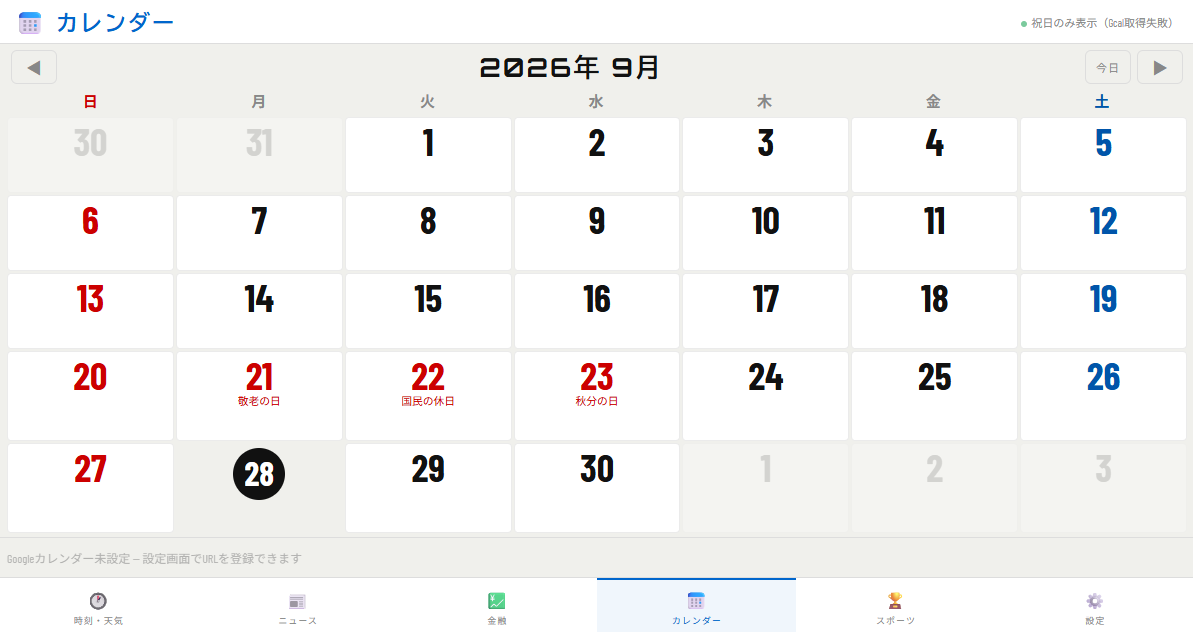
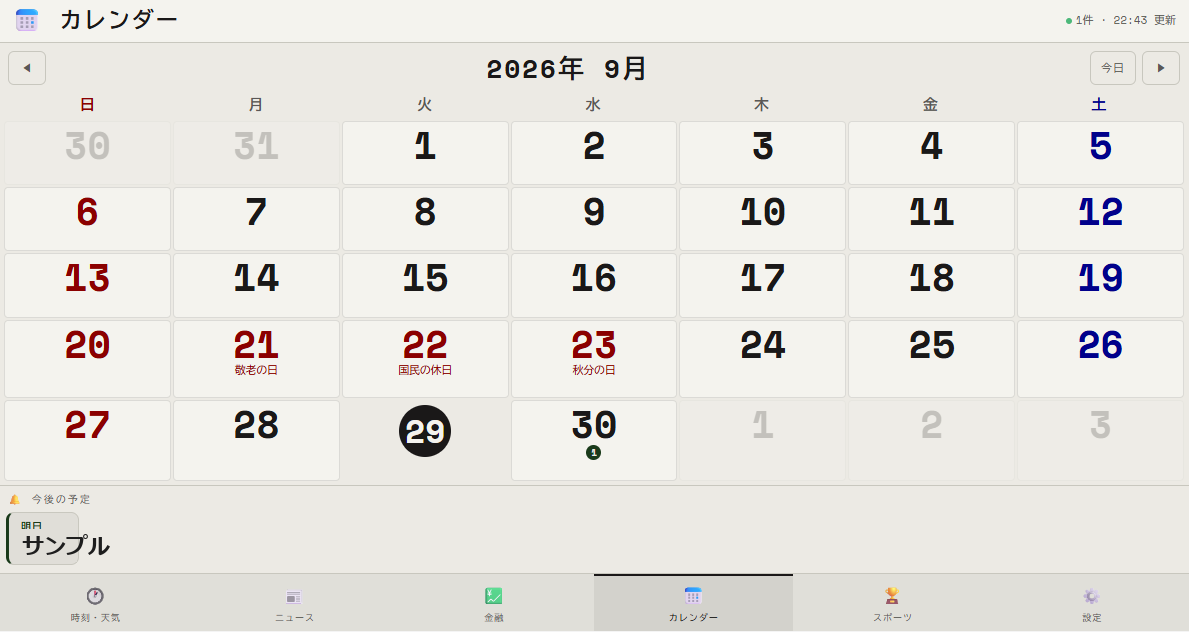
feat: タブレット情報モニター紹介ページのカレンダー説明・スクショを更新
- カレンダーの説明文に「件数バッジ」「マス目タップで過去の日付も含め日別詳細を表示」を追記
- calendar.pngを、実機で動作確認した最新UI（件数バッジ・今後の予定欄）のスクショに差し替え
  （実際の予定名はプライバシー配慮のため「サンプル」に画像編集で置換済み）

diff --git a/app/tablet-dashboard/page.tsx b/app/tablet-dashboard/page.tsx
@@ -34,7 +34,7 @@ const SCREENS = [
   {
     num: '04',
     title: 'カレンダー',
-    desc: '壁掛けカレンダーのような月表示。日曜は赤、土曜は青、今日は丸、祝日は名前つき。Googleカレンダーを連携すると予定も表示されます。',
+    desc: '壁掛けカレンダーのような月表示。日曜は赤、土曜は青、今日は丸、祝日は名前つき。Googleカレンダーを連携すると、予定がある日には件数バッジが付き、マス目をタップすると過去の日付も含めてその日の予定を見られます。',
     img: '/screenshots/tablet-dashboard/calendar.png',
     alt: 'カレンダー画面',
   },
